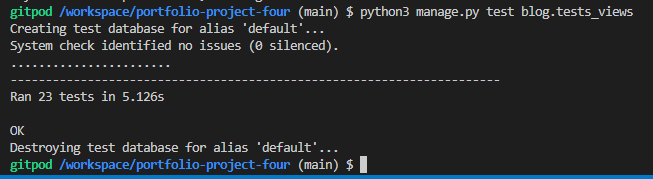
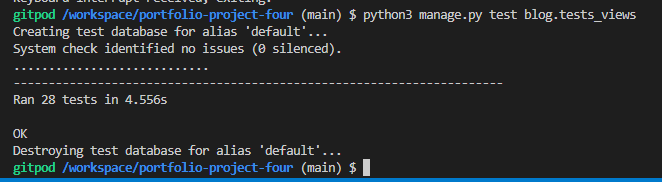
add unit test to README

diff --git a/static/css/login.css b/static/css/login.css
@@ -5,15 +5,7 @@
     height: 100%;
     text-decoration: none;
     }
-    /* #background {
-    padding: 5em 0;
-    margin-bottom: 0;
-    background: url('https://res.cloudinary.com/dvbhrs1gf/image/upload/v1678887298/DSC_0032_j1lfdd.jpg') center center / cover no-repeat fixed;
-    height: 100%;
-    text-decoration: none;
-    display: table;
-    } */
-    
+
     .form {
     position: relative;
     z-index: 1;

diff --git a/static/css/create-post-page.css b/static/css/create-post-page.css
@@ -2,7 +2,7 @@
     padding: 2em 0;
     margin-bottom: 0;
     background: url('https://res.cloudinary.com/dvbhrs1gf/image/upload/v1678760098/sfcraeqvhfxvpkuo7nz5.jpg') center center / cover no-repeat fixed;
-    min-height: 75vh;
+    min-height: 80vh;
     height: 100%;
     text-decoration: none;
 }

diff --git a/static/css/contact.css b/static/css/contact.css
@@ -2,7 +2,7 @@
     padding: 4em 0;
     margin-bottom: 0;
     background: url('https://res.cloudinary.com/dvbhrs1gf/image/upload/v1679410568/DSC_00112_qslfd6.jpg') center center / cover no-repeat fixed;
-    min-height: 75vh;
+    min-height: 80vh;
 }
 .elementor {
     color: #FFF;

diff --git a/static/css/pricing.css b/static/css/pricing.css
@@ -2,7 +2,7 @@
   padding: 3em 0;
   margin-bottom: 0;
   background: url('https://res.cloudinary.com/dvbhrs1gf/image/upload/v1678884135/DSC_0907_umnk6u.jpg') center center / cover no-repeat fixed;
-  min-height: 75vh;
+  min-height: 80vh;
 }
 .booknow-contain {
   margin: 0 auto;

diff --git a/static/css/delete-booking-page.css b/static/css/delete-booking-page.css
@@ -4,7 +4,7 @@
     background-size: cover;
     height: 100vh;
     text-decoration: none;
-    min-height: 70vh;
+    min-height: 80vh;
 }
 .delete-booking-contain {
     margin: 0 auto;

diff --git a/codestar/settings.py b/codestar/settings.py
@@ -28,7 +28,7 @@ TEMPLATES_DIR = os.path.join(BASE_DIR, 'templates')
 SECRET_KEY = os.environ.get('SECRET_KEY')
 
 # SECURITY WARNING: don't run with debug turned on in production!
-DEBUG = False
+DEBUG = True
 
 X_FRAME_OPTIONS = 'SAMEORIGIN'
 
@@ -109,16 +109,16 @@ WSGI_APPLICATION = 'codestar.wsgi.application'
 # Database
 # https://docs.djangoproject.com/en/3.2/ref/settings/#databases
 
-# DATABASES = {
-#     'default': {
-#         'ENGINE': 'django.db.backends.sqlite3',
-#         'NAME': BASE_DIR / 'db.sqlite3',
-#     }
-# }
-
 DATABASES = {
-    'default': dj_database_url.parse(os.environ.get("DATABASE_URL"))
+    'default': {
+        'ENGINE': 'django.db.backends.sqlite3',
+        'NAME': BASE_DIR / 'db.sqlite3',
+    }
 }
+
+# DATABASES = {
+#     'default': dj_database_url.parse(os.environ.get("DATABASE_URL"))
+# }
 
 
 # Password validation

diff --git a/README.md b/README.md
@@ -651,7 +651,15 @@ See bug report: [bug reports](https://github.com/users/SergiyKochenko/projects/6
 
 ![Views test](/static/assets/unit_tests/views.png)
 
-![Views coverage](/static/assets/unit_tests/admin_coverage.png)
+![Views coverage](/static/assets/unit_tests/views_coverage.png)
+
+</details>
+<details>
+<summary>Total tests and coverage</summary>
+
+![Total tests](/static/assets/unit_tests/total_tests.png)
+
+![Total coverage](/static/assets/unit_tests/total_coverage.png)
 
 </details>
 
@@ -962,7 +970,7 @@ The structure and the code of the project was based on two walkthroughs by the C
   * Hello Django - I created CRUD functionalities based on the examples of this walkthrough.
   * From I think  therefore I blog -  I borrowed confirmation messages code and also followed the site deployment steps outlined here. 
 
-Date picker field and minimum date validator taken from [here](https://gist.github.com/stasyao/99376eb0cf0ad3599f9737c421b5210e#part_4).
+Date picker field and minimum date validator learned from [here](https://gist.github.com/stasyao/99376eb0cf0ad3599f9737c421b5210e#part_4).
 
 [Official Django Documentation](https://docs.djangoproject.com/en/4.1/ref/) was researched for code expressions  and code functionalities.
 Django [choices fields](https://docs.djangoproject.com/en/4.1/ref/models/fields/).
@@ -972,7 +980,7 @@ Stack Overflow was used intensively for research into code functionalities and p
 
 ### Content
 
-The site home page is taken from the Aquarium community template. I slightly changed the look of the home page and tried to keep the rest of the pages in the same style.
+The site home page is taken from I think therefore I blog template. I slightly changed the look of the home page and tried to keep the rest of the pages in the same style.
 
 
 ### Media
@@ -987,12 +995,12 @@ Website template from Aquarium community.
 
 ### Acknowledgment
 
- - Kerry Colledge for supporting all our group and for  individual support in all circumstances.
+- Kerry Colledge for supporting all our group and for  individual support in all circumstances.
 - Code Institute (especially the Django blog) which helped me to understand how it all comes together.
 - The tutor support team at Code Institute for their support.
 - To my friends who participated in testing my application.
 - Martina Terlevic (my mentor), for helping me.
- - Class mates for helping me.
+- Class mates for helping me.
 
 
 [Back to the top](#table-of-contents)
